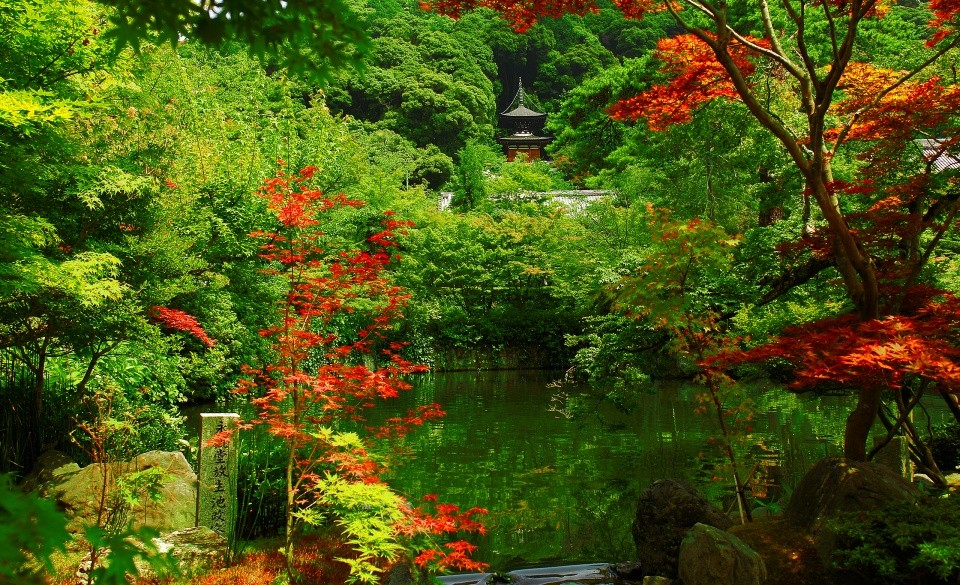
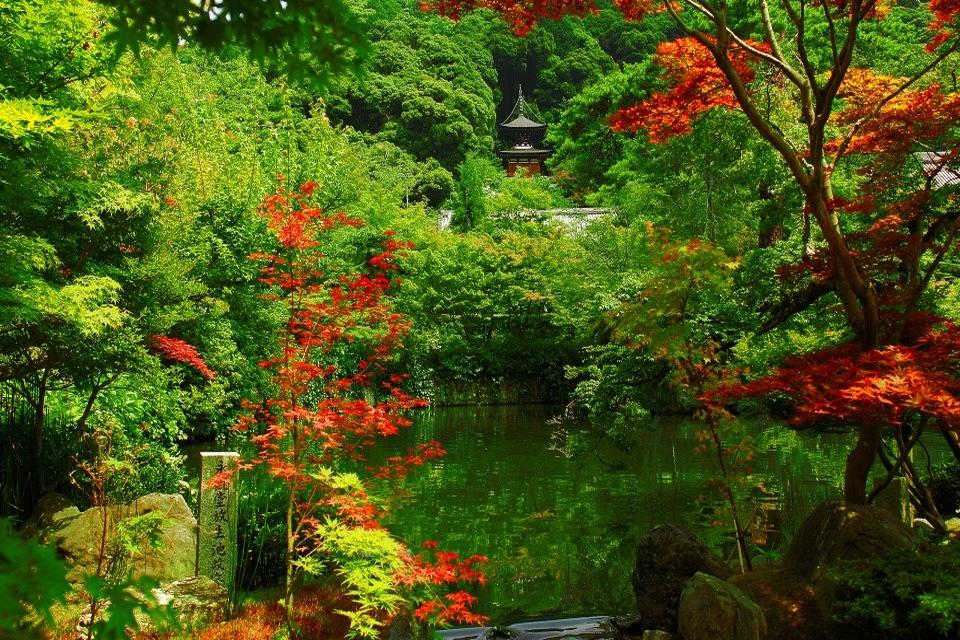
images resized, fixed errors, did checks

diff --git a/photos.html b/photos.html
@@ -21,33 +21,49 @@
         <main>
             <div class="row">
                 <div class="column">
-                    <img src="images/asian-woman-wearing-japanese-traditional-kimono-yasaka-pagoda-sannen-zaka-street-kyoto-japan.jpg" alt="Asian woman wearing japanese traditional kimono yasaka pagoda sannen zaka street kyoto japan" loading="lazy"/>
-                    <img src="images/beautiful-japanese-garden.jpg" alt="Beautiful japanese garden" loading="lazy"/>
-                    <img src="images/beautiful-kyoto-city-temple-twilight-japan.jpg" alt="Beautiful kyoto city temple twilight japan " loading="lazy"/>
-                    <img src="images/beautiful-landscape-bamboo-grove-forest-arashiyama-kyoto.jpg" alt="Beautiful landscape bamboo grove forest arashiyama kyoto" loading="lazy"/>
+                    <img src="images/asian-woman-wearing-japanese-traditional-kimono-yasaka-pagoda-sannen-zaka-street-kyoto-japan.jpg"
+                         alt="Asian woman in kimono at Yasaka Pagoda, Kyoto" title="Asian woman in kimono at Yasaka Pagoda, Kyoto" loading="lazy"/>
+                    <img src="images/beautiful-japanese-garden.jpg"
+                         alt="Japanese garden" title="Japanese garden" loading="lazy"/>
+                    <img src="images/beautiful-kyoto-city-temple-twilight-japan.jpg"
+                         alt="Kyoto temple at twilight" title="Kyoto temple at twilight" loading="lazy"/>
+                    <img src="images/beautiful-landscape-bamboo-grove-forest-arashiyama-kyoto.jpg"
+                         alt="Arashiyama Bamboo Forest" title="Arashiyama Bamboo Forest" loading="lazy"/>
                 </div>
                 <div class="column">
-                    <img src="images/boatman-punting-boat-river-arashiyama-autumn-season-along-river-kyoto-japan.jpg" alt="Boatman punting boat river arashiyama autumn season along river kyoto japan" loading="lazy"/>
-                    <img src="images/front-view-japanese-structure-with-lanterns-nature.jpg" alt="Front view japanese structure with lanterns nature" loading="lazy"/>
-                    <img src="images/fushimi-inari-shrine-kyoto-japan.jpg" alt="Fushimi inari shrine kyoto japan" loading="lazy"/>
-                    <img src="images/golden-pavilion-kinkakuji-temple-autumn-kyoto-japan.jpg" alt="Golden pavilion kinkakuji temple autumn kyoto japan" loading="lazy"/>
+                    <img src="images/boatman-punting-boat-river-arashiyama-autumn-season-along-river-kyoto-japan.jpg"
+                         alt="Boatman on Arashiyama River" title="Boatman on Arashiyama River" loading="lazy"/>
+                    <img src="images/front-view-japanese-structure-with-lanterns-nature.jpg"
+                         alt="Japanese structure with lanterns" title="Japanese structure with lanterns" loading="lazy"/>
+                    <img src="images/fushimi-inari-shrine-kyoto-japan.jpg"
+                         alt="Fushimi Inari Shrine" title="Fushimi Inari Shrine" loading="lazy"/>
+                    <img src="images/golden-pavilion-kinkakuji-temple-autumn-kyoto-japan.jpg"
+                         alt="Golden Pavilion (Kinkakuji)" title="Golden Pavilion (Kinkakuji)" loading="lazy"/>
                 </div>
                 <div class="column">
-                    <img src="images/japanese-temple-with-leaning-tree.jpg" alt="Japanese temple with leaning tree" loading="lazy"/>
-                    <img src="images/japan-street-urban-landscape.jpg" alt="Japan street urban landscape" loading="lazy"/>
-                    <img src="images/japan-street-with-stores-signs.jpg" alt="Japan street with stores signs" loading="lazy"/>
-                    <img src="images/japan-urban-landscape-night-time.jpg" alt="Japan urban landscape night time" loading="lazy"/>
+                    <img src="images/japanese-temple-with-leaning-tree.jpg"
+                         alt="Temple with leaning tree" title="Temple with leaning tree" loading="lazy"/>
+                    <img src="images/japan-street-urban-landscape.jpg"
+                         alt="Urban street in Japan" title="Urban street in Japan" loading="lazy"/>
+                    <img src="images/japan-street-with-stores-signs.jpg"
+                         alt="Japanese street with signs" title="Japanese street with signs" loading="lazy"/>
+                    <img src="images/japan-urban-landscape-night-time.jpg"
+                         alt="Japan city at night" title="Japan city at night" loading="lazy"/>
                 </div>
                 <div class="column">
-                    <img src="images/photos_page.jpg" alt="photos page" loading="lazy"/>
-                    <img src="images/modern-urban-downtown-view.jpg" alt="Modern urban downtown view" loading="lazy"/>
-                    <img src="images/photos_page.jpg" alt="Photos page" loading="lazy"/>
-                    <img src="images/photos_page.jpg" alt="Photos page" loading="lazy"/>
+                    <img src="images/photos_page.jpg"
+                         alt="Photos collection" title="Photos collection" loading="lazy"/>
+                    <img src="images/modern-urban-downtown-view.jpg"
+                         alt="Modern city downtown" title="Modern city downtown" loading="lazy"/>
+                    <img src="images/photos_page.jpg"
+                         alt="Photo gallery" title="Photo gallery" loading="lazy"/>
+                    <img src="images/photos_page.jpg"
+                         alt="Gallery preview" title="Gallery preview" loading="lazy"/>
                 </div>
             </div>
         </main>
         <footer>
-            <p xmlns:cc="http://creativecommons.org/ns#" xmlns:dct="http://purl.org/dc/terms/"><span property="dct:title">KYOTO</span> by <span property="cc:attributionName">John</span> is licensed under <a href="https://creativecommons.org/licenses/by-sa/4.0/?ref=chooser-v1" target="_blank" rel="license noopener noreferrer" style="display:inline-block;">CC BY-SA 4.0<img style="height:22px!important;margin-left:3px;vertical-align:text-bottom;" src="https://mirrors.creativecommons.org/presskit/icons/cc.svg?ref=chooser-v1" alt=""><img style="height:22px!important;margin-left:3px;vertical-align:text-bottom;" src="https://mirrors.creativecommons.org/presskit/icons/by.svg?ref=chooser-v1" alt=""><img style="height:22px!important;margin-left:3px;vertical-align:text-bottom;" src="https://mirrors.creativecommons.org/presskit/icons/sa.svg?ref=chooser-v1" alt=""></a></p>
+            <p><span property="dct:title">KYOTO</span> by <span property="cc:attributionName">John</span> is licensed under <a href="https://creativecommons.org/licenses/by-sa/4.0/?ref=chooser-v1" target="_blank" rel="license noopener noreferrer" style="display:inline-block;">CC BY-SA 4.0<img style="height:22px!important;margin-left:3px;vertical-align:text-bottom;" src="https://mirrors.creativecommons.org/presskit/icons/cc.svg?ref=chooser-v1" alt=""><img style="height:22px!important;margin-left:3px;vertical-align:text-bottom;" src="https://mirrors.creativecommons.org/presskit/icons/by.svg?ref=chooser-v1" alt=""><img style="height:22px!important;margin-left:3px;vertical-align:text-bottom;" src="https://mirrors.creativecommons.org/presskit/icons/sa.svg?ref=chooser-v1" alt=""></a></p>
         </footer>
     </body>
 </html>

diff --git a/index.html b/index.html
@@ -26,8 +26,8 @@
             images/main.jpg 7680w"
                  sizes="(min-width: 480px) 480px,
                  (min-width: 960px) 960px,
-                 (min-width: 1920px) 1920w,
-                 (min-width: 3840px) 3840w,
+                 (min-width: 1920px) 1920px,
+                 (min-width: 3840px) 3840px,
                  7680px"
                  src="images/main.jpg" alt="Kyoto view"
             title="Kyoto view" loading="lazy">
@@ -49,7 +49,7 @@
         </section>
     </main>
     <footer>
-        <p xmlns:cc="http://creativecommons.org/ns#" xmlns:dct="http://purl.org/dc/terms/"><span property="dct:title">KYOTO</span> by <span property="cc:attributionName">John</span> is licensed under <a href="https://creativecommons.org/licenses/by-sa/4.0/?ref=chooser-v1" target="_blank" rel="license noopener noreferrer" style="display:inline-block;">CC BY-SA 4.0<img style="height:22px!important;margin-left:3px;vertical-align:text-bottom;" src="https://mirrors.creativecommons.org/presskit/icons/cc.svg?ref=chooser-v1" alt=""><img style="height:22px!important;margin-left:3px;vertical-align:text-bottom;" src="https://mirrors.creativecommons.org/presskit/icons/by.svg?ref=chooser-v1" alt=""><img style="height:22px!important;margin-left:3px;vertical-align:text-bottom;" src="https://mirrors.creativecommons.org/presskit/icons/sa.svg?ref=chooser-v1" alt=""></a></p>
+        <p><span property="dct:title">KYOTO</span> by <span property="cc:attributionName">John</span> is licensed under <a href="https://creativecommons.org/licenses/by-sa/4.0/?ref=chooser-v1" target="_blank" rel="license noopener noreferrer" style="display:inline-block;">CC BY-SA 4.0<img style="height:22px!important;margin-left:3px;vertical-align:text-bottom;" src="https://mirrors.creativecommons.org/presskit/icons/cc.svg?ref=chooser-v1" alt=""><img style="height:22px!important;margin-left:3px;vertical-align:text-bottom;" src="https://mirrors.creativecommons.org/presskit/icons/by.svg?ref=chooser-v1" alt=""><img style="height:22px!important;margin-left:3px;vertical-align:text-bottom;" src="https://mirrors.creativecommons.org/presskit/icons/sa.svg?ref=chooser-v1" alt=""></a></p>
     </footer>
 </body>
 </html>

diff --git a/contact.html b/contact.html
@@ -33,7 +33,7 @@
             </div>
         </main>
         <footer>
-            <p xmlns:cc="http://creativecommons.org/ns#" xmlns:dct="http://purl.org/dc/terms/"><span property="dct:title">KYOTO</span> by <span property="cc:attributionName">John</span> is licensed under <a href="https://creativecommons.org/licenses/by-sa/4.0/?ref=chooser-v1" target="_blank" rel="license noopener noreferrer" style="display:inline-block;">CC BY-SA 4.0<img style="height:22px!important;margin-left:3px;vertical-align:text-bottom;" src="https://mirrors.creativecommons.org/presskit/icons/cc.svg?ref=chooser-v1" alt=""><img style="height:22px!important;margin-left:3px;vertical-align:text-bottom;" src="https://mirrors.creativecommons.org/presskit/icons/by.svg?ref=chooser-v1" alt=""><img style="height:22px!important;margin-left:3px;vertical-align:text-bottom;" src="https://mirrors.creativecommons.org/presskit/icons/sa.svg?ref=chooser-v1" alt=""></a></p>
+            <p><span property="dct:title">KYOTO</span> by <span property="cc:attributionName">John</span> is licensed under <a href="https://creativecommons.org/licenses/by-sa/4.0/?ref=chooser-v1" target="_blank" rel="license noopener noreferrer" style="display:inline-block;">CC BY-SA 4.0<img style="height:22px!important;margin-left:3px;vertical-align:text-bottom;" src="https://mirrors.creativecommons.org/presskit/icons/cc.svg?ref=chooser-v1" alt=""><img style="height:22px!important;margin-left:3px;vertical-align:text-bottom;" src="https://mirrors.creativecommons.org/presskit/icons/by.svg?ref=chooser-v1" alt=""><img style="height:22px!important;margin-left:3px;vertical-align:text-bottom;" src="https://mirrors.creativecommons.org/presskit/icons/sa.svg?ref=chooser-v1" alt=""></a></p>
         </footer>
     </body>
 </html>

diff --git a/about.html b/about.html
@@ -54,7 +54,7 @@
       </article>
     </main>
     <footer>
-      <p xmlns:cc="http://creativecommons.org/ns#" xmlns:dct="http://purl.org/dc/terms/"><span property="dct:title">KYOTO</span> by <span property="cc:attributionName">John</span> is licensed under <a href="https://creativecommons.org/licenses/by-sa/4.0/?ref=chooser-v1" target="_blank" rel="license noopener noreferrer" style="display:inline-block;">CC BY-SA 4.0<img style="height:22px!important;margin-left:3px;vertical-align:text-bottom;" src="https://mirrors.creativecommons.org/presskit/icons/cc.svg?ref=chooser-v1" alt=""><img style="height:22px!important;margin-left:3px;vertical-align:text-bottom;" src="https://mirrors.creativecommons.org/presskit/icons/by.svg?ref=chooser-v1" alt=""><img style="height:22px!important;margin-left:3px;vertical-align:text-bottom;" src="https://mirrors.creativecommons.org/presskit/icons/sa.svg?ref=chooser-v1" alt=""></a></p>
+      <p><span property="dct:title">KYOTO</span> by <span property="cc:attributionName">John</span> is licensed under <a href="https://creativecommons.org/licenses/by-sa/4.0/?ref=chooser-v1" target="_blank" rel="license noopener noreferrer" style="display:inline-block;">CC BY-SA 4.0<img style="height:22px!important;margin-left:3px;vertical-align:text-bottom;" src="https://mirrors.creativecommons.org/presskit/icons/cc.svg?ref=chooser-v1" alt=""><img style="height:22px!important;margin-left:3px;vertical-align:text-bottom;" src="https://mirrors.creativecommons.org/presskit/icons/by.svg?ref=chooser-v1" alt=""><img style="height:22px!important;margin-left:3px;vertical-align:text-bottom;" src="https://mirrors.creativecommons.org/presskit/icons/sa.svg?ref=chooser-v1" alt=""></a></p>
     </footer>
   </body>
 </html>

diff --git a/css/general.css b/css/general.css
@@ -36,7 +36,7 @@ main p {
     object-fit: cover;
     width: 100%;
     height: 100%;
-    filter: brightness(50%);
+    filter: brightness(40%);
 }
 
 #image_container h1 {
@@ -60,6 +60,11 @@ main p {
     width: auto;
     color: white;
     background-color: #0c2e33;
+}
+
+#text_section a:hover {
+    background-color: white;
+    color: black;
 }
 
 #text_section a {
